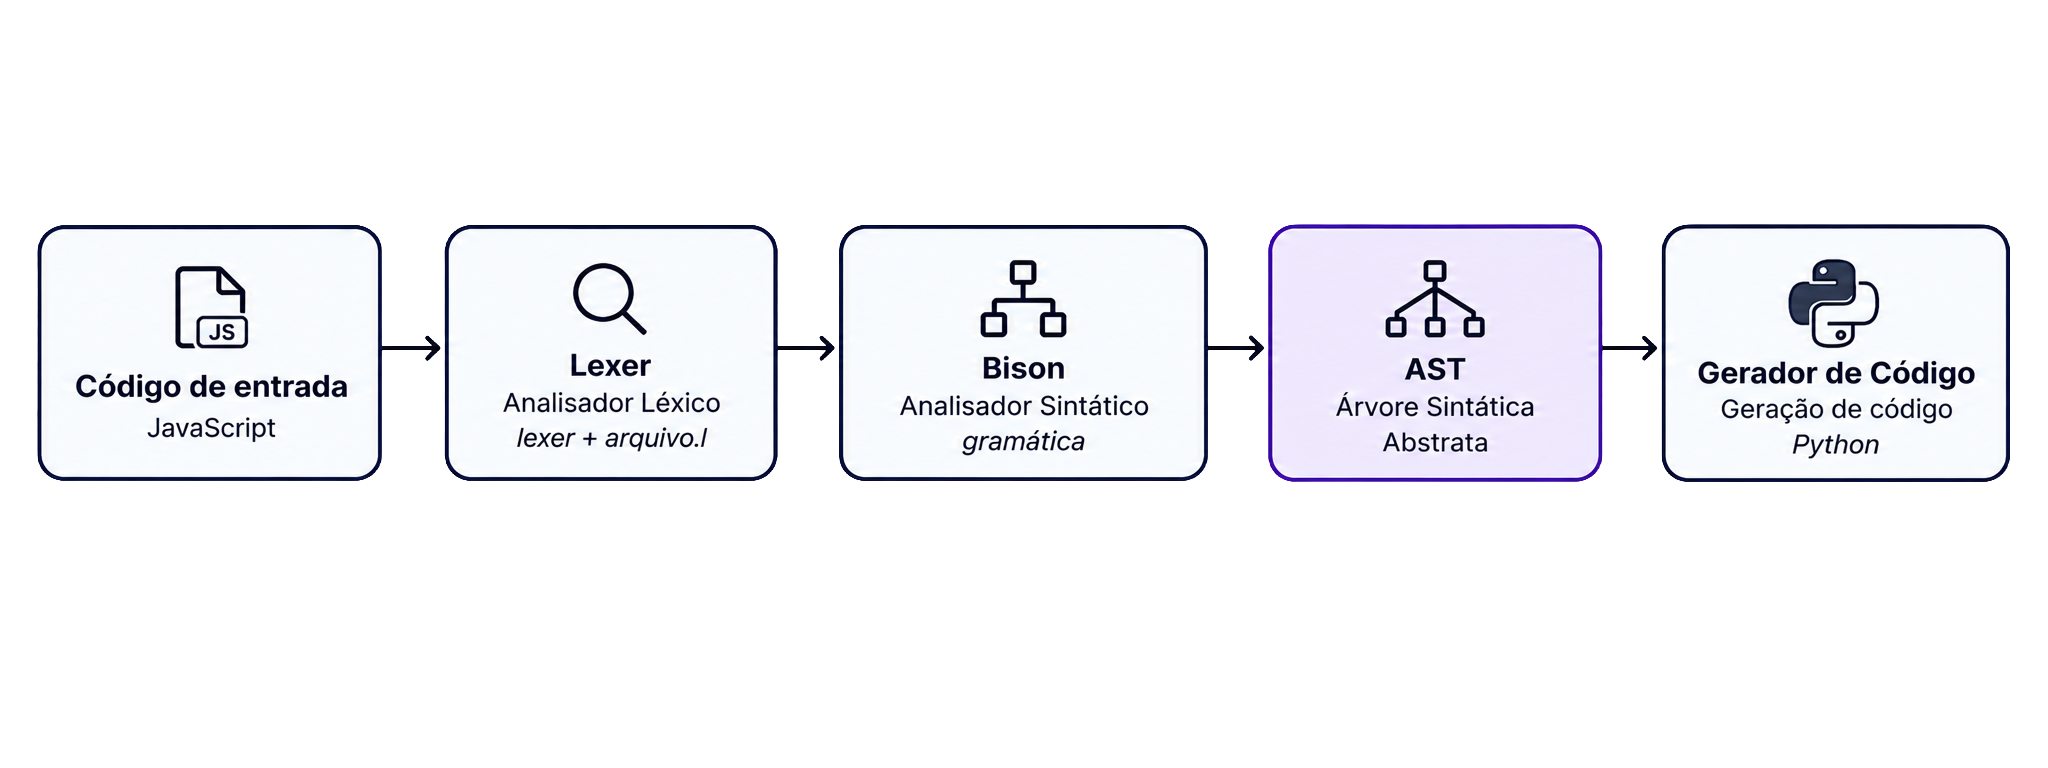
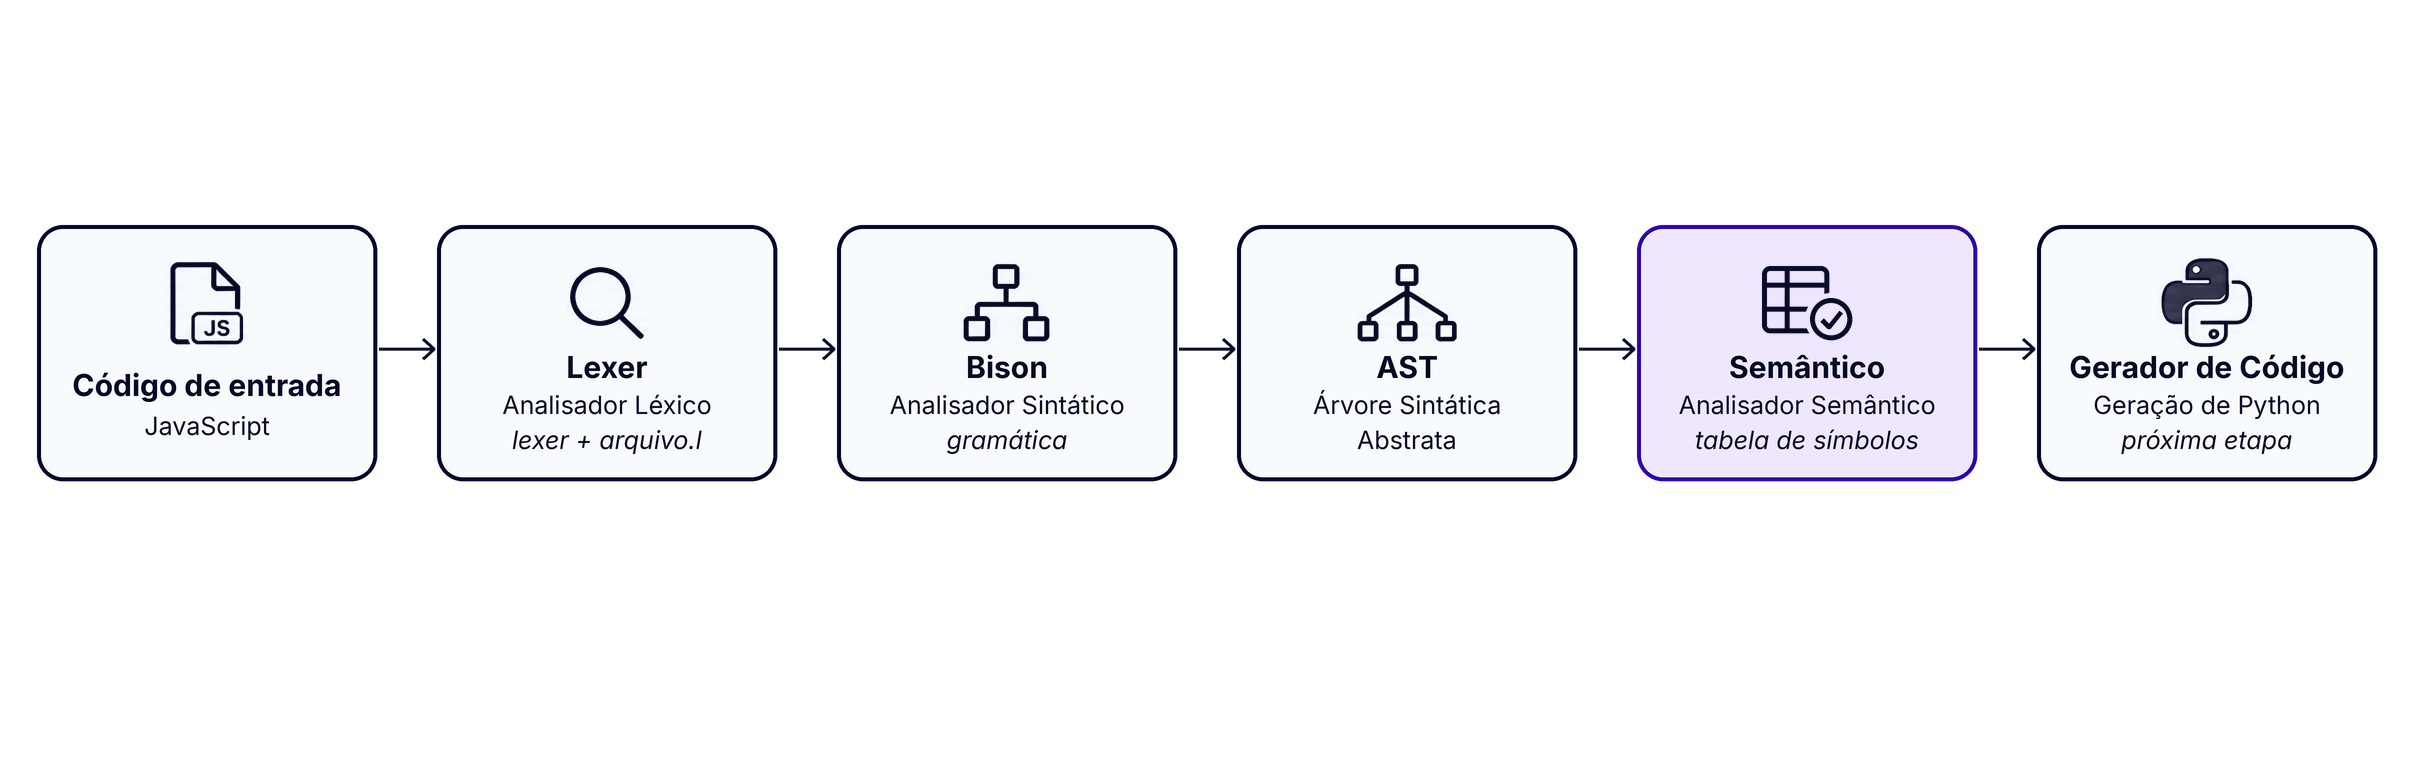
docs(fluxo): adiciona fase semantica ao diagrama e a pagina sobre.md

Changed region(s): [[0.0, 0.2812, 1.0, 0.625], [0.3125, 0.2812, 0.4375, 0.3125]]

diff --git a/docs/sobre.md b/docs/sobre.md
@@ -14,5 +14,7 @@ O fluxo de compilação especificado para a arquitetura do projeto é composto p
 ![Fluxo de Compilação](assets/FluxoCompilador.png)
 
 1. **Analisador Léxico:** Desenvolvido em C utilizando o **Flex**. É responsável por fazer a varredura do código-fonte em JavaScript, descartando espaços em branco e comentários e convertendo o texto em uma sequência de tokens válidos.
-2. **Analisador Sintático:** Implementado em C utilizando o **Bison**. Esta etapa recebe os tokens gerados no processo léxico, valida a estrutura das instruções contra a gramática livre de contexto da linguagem e constrói a Árvore Sintática Abstrata (AST).
-3. **Gerador de Código Final:** Responsável por percorrer a representação intermediária estruturada na AST e emitir o código correspondente em **Python (`.py`)**, devidamente identado e pronto para execução.
+2. **Analisador Sintático:** Implementado em C utilizando o **Bison**. Esta etapa recebe os tokens gerados no processo léxico e valida a estrutura das instruções contra a gramática livre de contexto da linguagem.
+3. **Árvore Sintática Abstrata (AST):** Construída pelo Bison durante a própria análise sintática, organiza o programa em uma estrutura de árvore na memória. É a representação intermediária do compilador, usada pelas etapas seguintes.
+4. **Analisador Semântico:** Percorre a AST e registra variáveis, funções e parâmetros na **tabela de símbolos**, controlando os escopos (global, função, bloco e `for`). Só é executado quando as fases léxica e sintática terminam sem erros.
+5. **Gerador de Código Final (próxima etapa):** Responsável por percorrer a AST validada e emitir o código correspondente em **Python (`.py`)**, devidamente indentado e pronto para execução.
